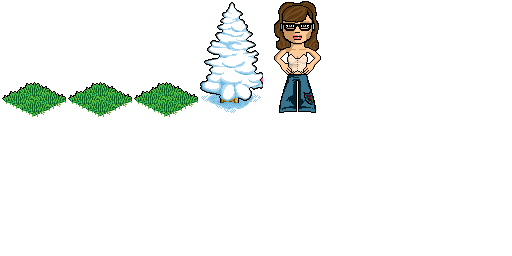
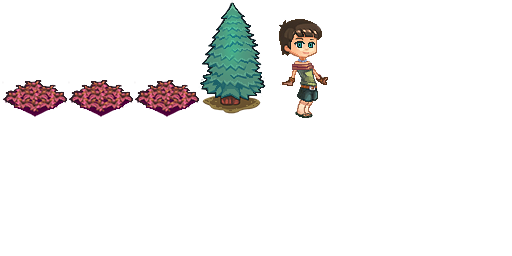
Upgraded to version 1.0.3
Replaced some third party assets

Changed region(s): [[0.0, 0.0, 0.6562, 0.4688]]

diff --git a/src/resources.js b/src/resources.js
@@ -1,4 +1,4 @@
-s_pathSister1 = "res/Images/grossinis_sister1.png";
+s_testSprite = "res/Images/sprite1.png";
 s_benchmark = "res/Images/benchmark.png";
 s_fire = "res/Images/fire.png";
 s_fpsImages = "res/Fonts/fps_images.png";
@@ -6,7 +6,7 @@ s_testTileMap = "res/TileMaps/test.tmx";
 
 g_resources = [
     //image resources
-    {type:"image", src:s_pathSister1},
+    {type:"image", src:s_testSprite},
     {type:"image", src:s_benchmark},
     {type:"image", src:s_fire},
     {type:"image", src:s_fpsImages},

diff --git a/index.html b/index.html
@@ -43,7 +43,7 @@
         }
     </style>
     <script type="text/javascript">
-        var BENCHMARK_VERSION = 'v1.0.2'; // Modify version in build.xml, when single file used
+        var BENCHMARK_VERSION = 'v1.0.3'; // Modify version in build.xml, when single file used
         // append version to title
         document.title = document.title + ' ' + BENCHMARK_VERSION;
         // benchmark output to write test result

diff --git a/src/tests/Sprite/BenchmarkSpriteTest.js b/src/tests/Sprite/BenchmarkSpriteTest.js
@@ -73,7 +73,7 @@ var SubTest = cc.Class.extend({
         switch (this._subtestNumber) {
             case 1:
             {
-                sprite = cc.Sprite.create("res/Images/grossinis_sister1.png");
+                sprite = cc.Sprite.create(s_testSprite);
                 this._parent.addChild(sprite, 0, tag + 100);
                 break;
             }
